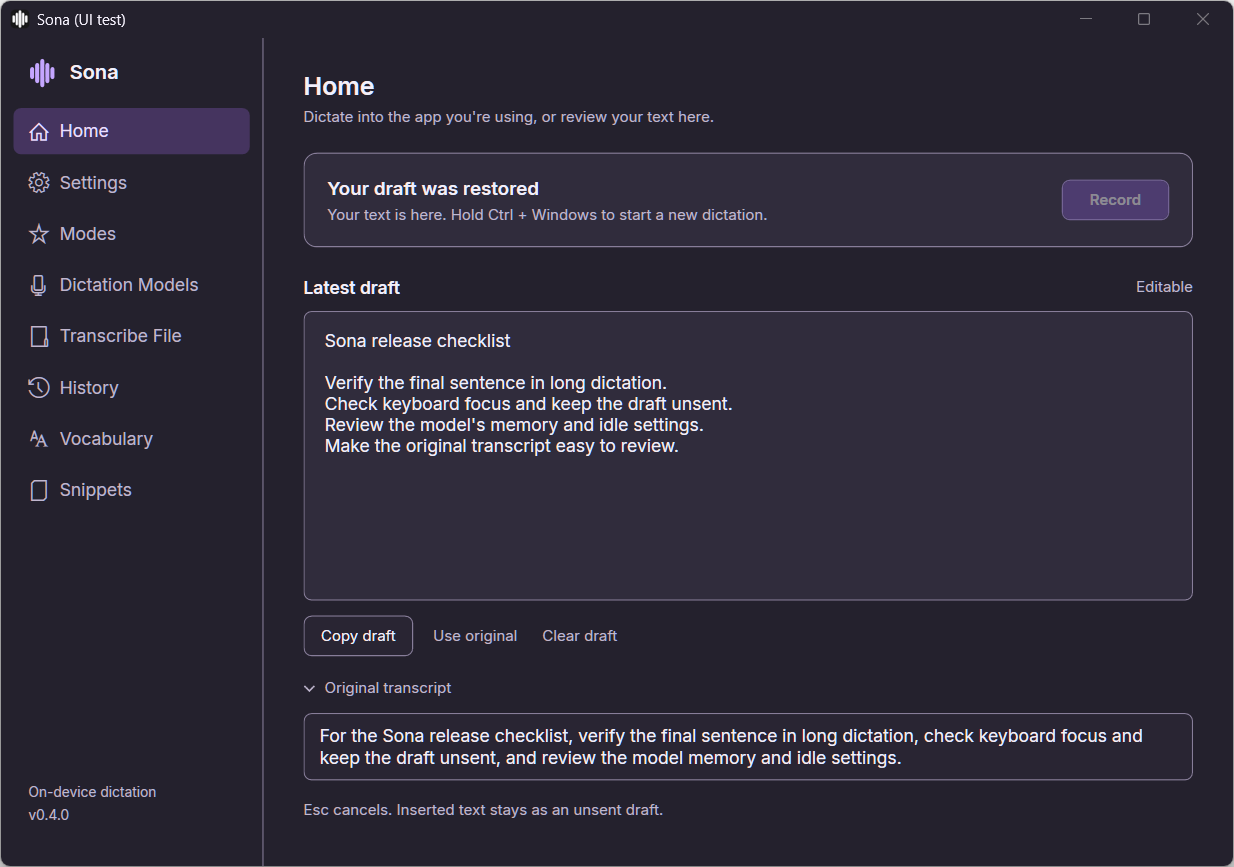
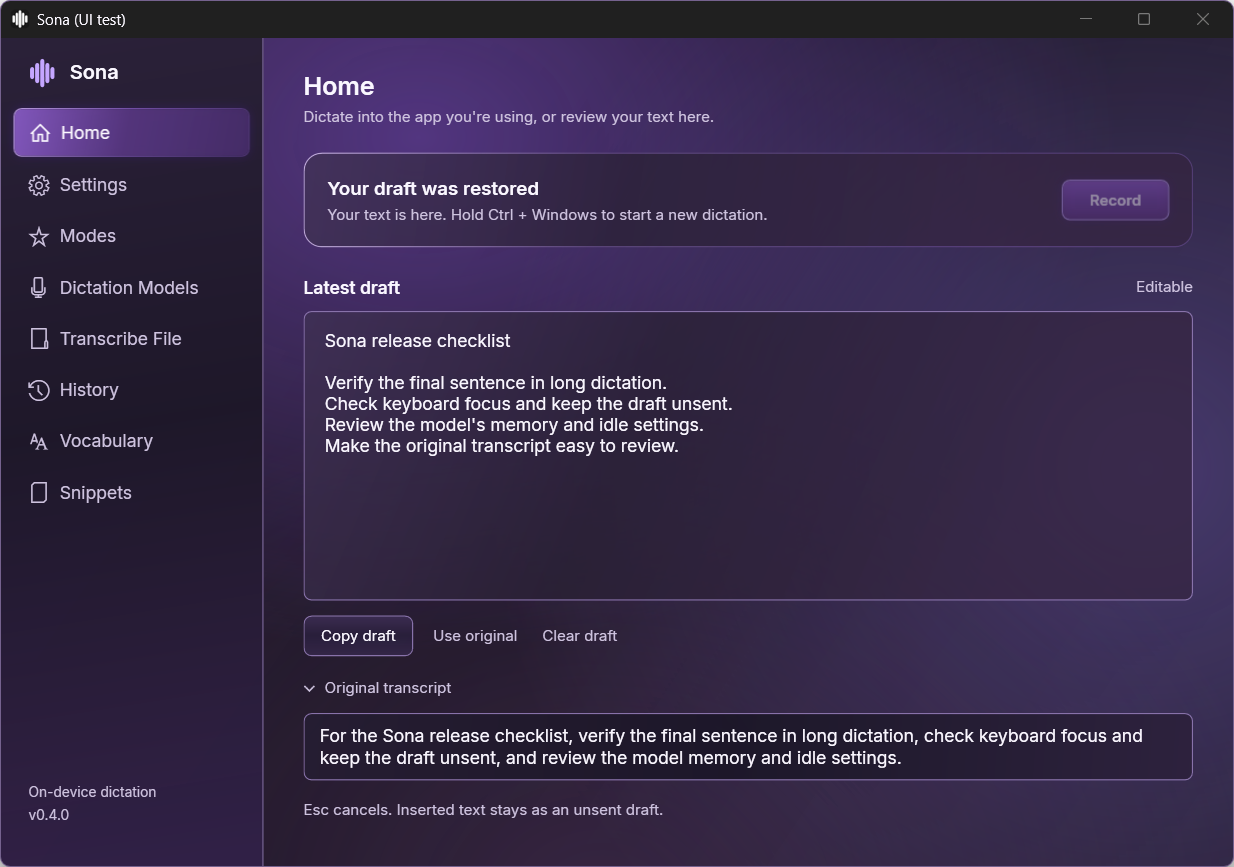
Unify README screenshots in Amethyst Glass

diff --git a/README.md b/README.md
@@ -17,7 +17,8 @@ welcome.
 
 ![Sona with a sample editable draft](docs/images/sona-home.png)
 
-Screenshots use the real 0.4.0 interface with an isolated profile and synthetic text.
+All screenshots show the real 0.4.0 interface in Amethyst Glass, using the same
+native window size, an isolated profile and synthetic text.
 
 ## Everyday dictation
 
